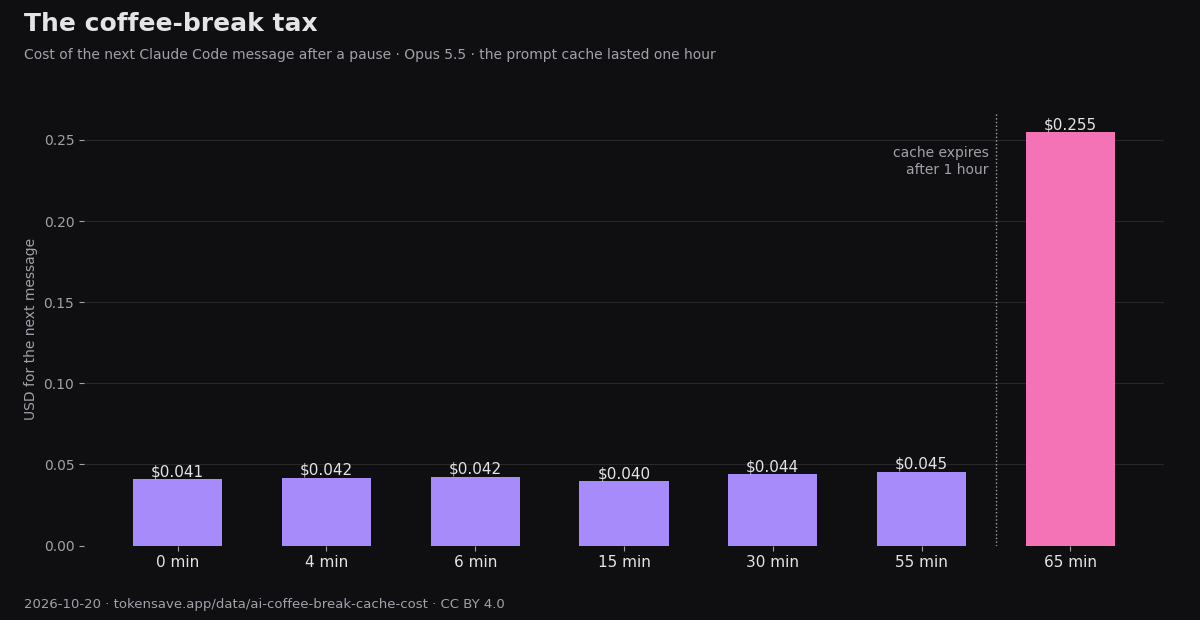
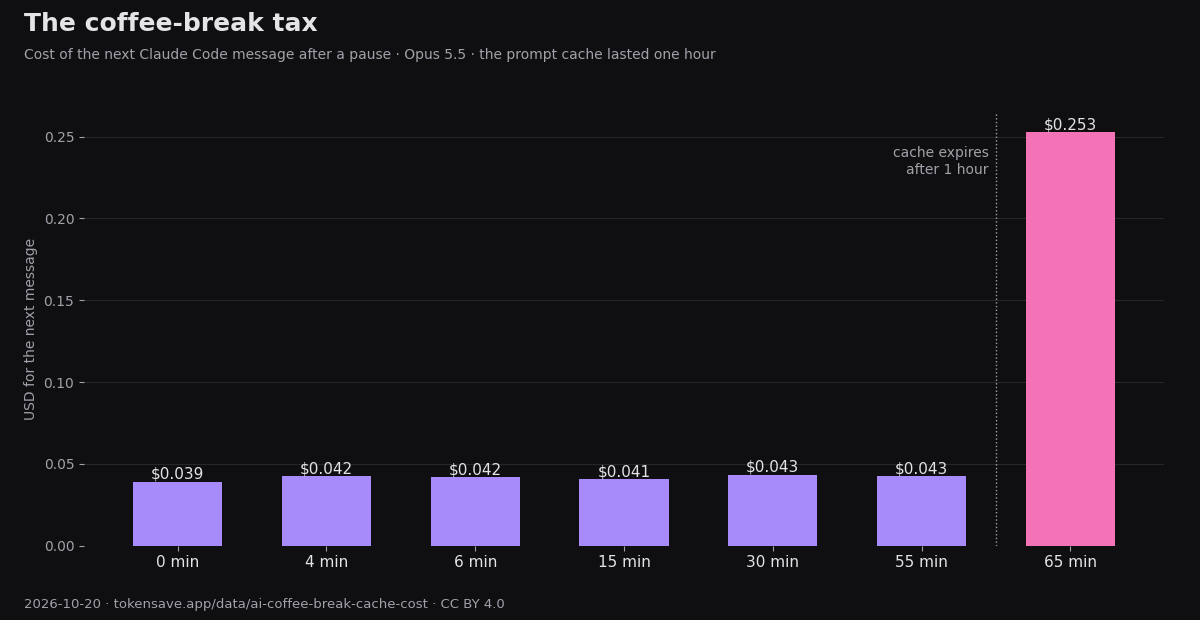
Deploy: coffee-break dataset updated with run 2
Claude-Session: https://claude.ai/code/session_0114J8oCXExe9ebHvH1UevYH

diff --git a/data/ai-coffee-break-cache-cost.html b/data/ai-coffee-break-cache-cost.html
@@ -101,7 +101,7 @@
     <article class="prose-ts max-w-3xl mx-auto bg-zinc-900/60 border border-zinc-800 rounded-2xl p-6 sm:p-8">
       <p class="not-prose text-xs font-semibold uppercase tracking-wider text-violet-300"><a href="/data/" class="no-underline" style="text-decoration:none">TokenSave Data</a> · Dataset</p>
       <h1 class="text-3xl font-extrabold text-white">The coffee-break tax: your next Claude Code message after a pause</h1>
-      <p class="mt-3 text-lg text-zinc-200"><strong>Take a break of up to an hour and your next Claude Code message costs the same. Take longer, and it costs about 6 times as much.</strong> In our runs Claude Code kept the conversation in Anthropic&rsquo;s prompt cache for one hour. After pauses of 0 to 55 minutes the next message read 43,002 tokens from the cache and cost $0.042; after 65 minutes the cache had expired, 27,660 tokens had to be written again, and the same message cost $0.255.</p>
+      <p class="mt-3 text-lg text-zinc-200"><strong>Take a break of up to an hour and your next Claude Code message costs the same. Take longer, and it costs about 6 times as much.</strong> In our runs Claude Code kept the conversation in Anthropic&rsquo;s prompt cache for one hour. After pauses of 0 to 55 minutes the next message read 42,667 tokens from the cache and cost $0.042; after 65 minutes the cache had expired, 27,460 tokens had to be written again, and the same message cost $0.253.</p>
       <p class="text-sm text-zinc-400">Measured 2026-10-20 · Claude Code (Opus 5.5) · pauses of 0, 4, 6, 15, 30, 55, 65 minutes · License <a href="https://creativecommons.org/licenses/by/4.0/">CC BY 4.0</a> · Related: <a href="/data/long-chat-vs-new-chat-cost">Long chat or new chat?</a></p>
       <div class="not-prose flex flex-wrap gap-2 my-4">
         <a href="/data/ai-coffee-break-cache-cost.csv" class="not-prose text-xs font-semibold rounded-md border border-violet-500/40 bg-violet-500/10 px-2.5 py-1 text-violet-200 hover:bg-violet-500/20" style="text-decoration:none">⬇ CSV</a>
@@ -111,24 +111,24 @@
       <img src="/ai-coffee-break-cache-cost-chart.png" alt="Cost of the next Claude Code message after pauses from 0 to 65 minutes" width="1200" loading="lazy">
       <h2>Key findings</h2>
       <ul>
-        <li><strong>Nothing changed for an hour.</strong> After pauses of 0, 4, 6, 15, 30, 55 minutes, the first model call of the next message read about 43,002 tokens from the cache and wrote only a few hundred new ones. The message cost $0.042 on average whether we waited 0 minutes or 55.</li>
-        <li><strong>After 65 minutes the cache was gone.</strong> The first call had to write 27,660 tokens to the cache again, at twice the normal input price, and the message cost $0.255, about 6 times as much (+501%).</li>
+        <li><strong>Nothing changed for an hour.</strong> After pauses of 0, 4, 6, 15, 30, 55 minutes, the first model call of the next message read about 42,667 tokens from the cache and wrote only a few hundred new ones. The message cost $0.042 on average whether we waited 0 minutes or 55.</li>
+        <li><strong>After 65 minutes the cache was gone.</strong> The first call had to write 27,460 tokens to the cache again, at twice the normal input price, and the message cost $0.253, about 6 times as much (+507%).</li>
         <li><strong>The cache lifetime was one hour.</strong> Every cache write in these runs was a one-hour write (<code>ephemeral_1h</code> in the usage report), not the five-minute default of the Anthropic API. That is why the 6- and 15-minute pauses, which would have missed a five-minute cache, cost nothing extra.</li>
         <li><strong>The bigger the project, the bigger the tax.</strong> Here the context was a small game of about 40,000 tokens. The cost of a cold start grows with everything in the conversation, so after a long session (our <a href="/data/long-chat-vs-new-chat-cost">long-chat measurement</a> reached 200,000 tokens of context and more) an expired cache costs far more.</li>
       </ul>
       <h2>The next message after each pause</h2>
-      <p class="text-sm text-zinc-400">First model call of the next message: tokens read from and written to the prompt cache. Cost is the API list-price estimate for the whole message (Opus 5.5). One run per pause; a second round is planned. Every run is in the CSV.</p>
+      <p class="text-sm text-zinc-400">First model call of the next message: tokens read from and written to the prompt cache. Cost is the API list-price estimate for the whole message (Opus 5.5). Mean of 2 runs. Every run is in the CSV.</p>
       <div class="overflow-x-auto">
         <table>
           <thead><tr><th>Pause</th><th class="text-right">Read from cache</th><th class="text-right">Written to cache</th><th class="text-right">Cost of the next message</th><th>Cache</th></tr></thead>
           <tbody>
-          <tr><td class="tabular-nums">0 min</td><td class="text-right tabular-nums">41,765</td><td class="text-right tabular-nums">589</td><td class="text-right tabular-nums">$0.041</td><td>still cached</td></tr>
-          <tr><td class="tabular-nums">4 min</td><td class="text-right tabular-nums">42,578</td><td class="text-right tabular-nums">498</td><td class="text-right tabular-nums">$0.042</td><td>still cached</td></tr>
-          <tr><td class="tabular-nums">6 min</td><td class="text-right tabular-nums">42,983</td><td class="text-right tabular-nums">471</td><td class="text-right tabular-nums">$0.042</td><td>still cached</td></tr>
-          <tr><td class="tabular-nums">15 min</td><td class="text-right tabular-nums">43,372</td><td class="text-right tabular-nums">462</td><td class="text-right tabular-nums">$0.040</td><td>still cached</td></tr>
-          <tr><td class="tabular-nums">30 min</td><td class="text-right tabular-nums">42,923</td><td class="text-right tabular-nums">515</td><td class="text-right tabular-nums">$0.044</td><td>still cached</td></tr>
-          <tr><td class="tabular-nums">55 min</td><td class="text-right tabular-nums">44,393</td><td class="text-right tabular-nums">521</td><td class="text-right tabular-nums">$0.045</td><td>still cached</td></tr>
-          <tr><td class="tabular-nums">65 min</td><td class="text-right tabular-nums">15,925</td><td class="text-right tabular-nums">27,660</td><td class="text-right tabular-nums">$0.255</td><td>cache expired, rebuilt</td></tr>
+          <tr><td class="tabular-nums">0 min</td><td class="text-right tabular-nums">41,436</td><td class="text-right tabular-nums">496</td><td class="text-right tabular-nums">$0.039</td><td>still cached</td></tr>
+          <tr><td class="tabular-nums">4 min</td><td class="text-right tabular-nums">43,232</td><td class="text-right tabular-nums">466</td><td class="text-right tabular-nums">$0.042</td><td>still cached</td></tr>
+          <tr><td class="tabular-nums">6 min</td><td class="text-right tabular-nums">42,440</td><td class="text-right tabular-nums">496</td><td class="text-right tabular-nums">$0.042</td><td>still cached</td></tr>
+          <tr><td class="tabular-nums">15 min</td><td class="text-right tabular-nums">43,076</td><td class="text-right tabular-nums">502</td><td class="text-right tabular-nums">$0.041</td><td>still cached</td></tr>
+          <tr><td class="tabular-nums">30 min</td><td class="text-right tabular-nums">42,636</td><td class="text-right tabular-nums">494</td><td class="text-right tabular-nums">$0.043</td><td>still cached</td></tr>
+          <tr><td class="tabular-nums">55 min</td><td class="text-right tabular-nums">43,183</td><td class="text-right tabular-nums">502</td><td class="text-right tabular-nums">$0.043</td><td>still cached</td></tr>
+          <tr><td class="tabular-nums">65 min</td><td class="text-right tabular-nums">15,925</td><td class="text-right tabular-nums">27,460</td><td class="text-right tabular-nums">$0.253</td><td>cache expired, rebuilt</td></tr>
           </tbody>
         </table>
       </div>
